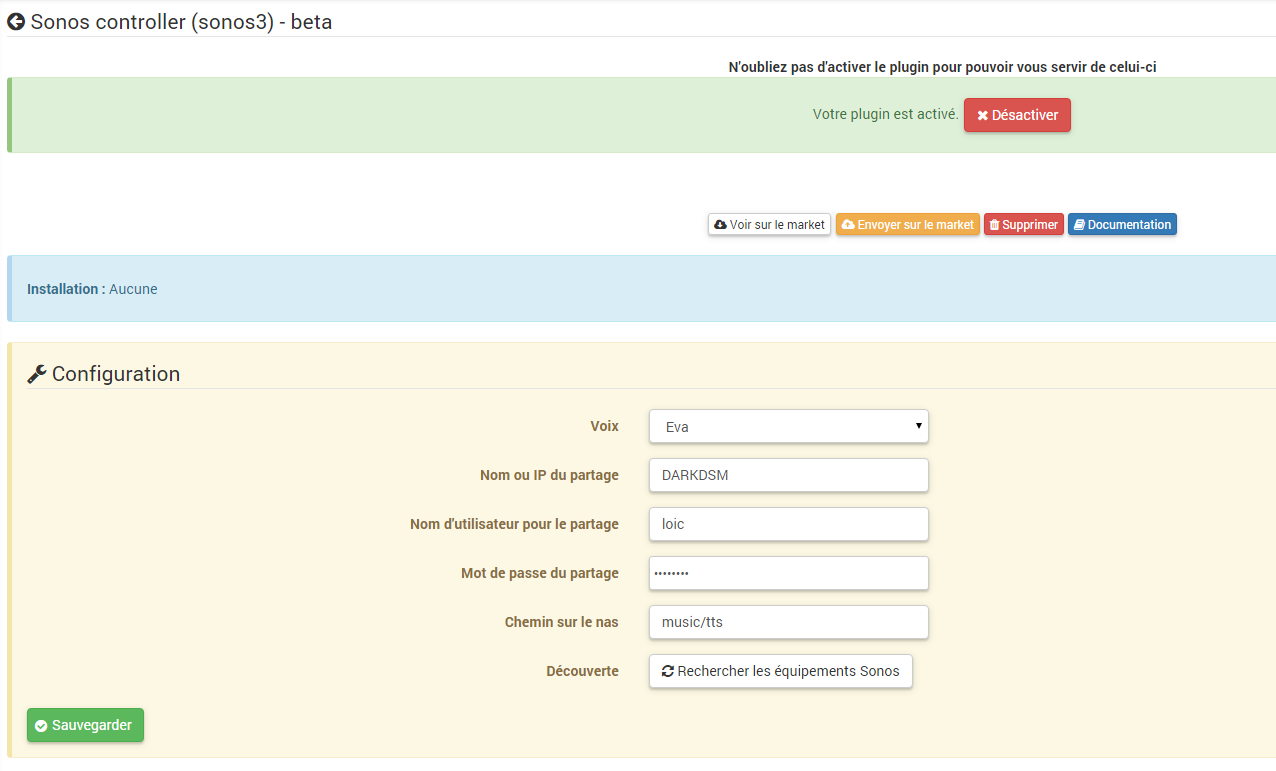
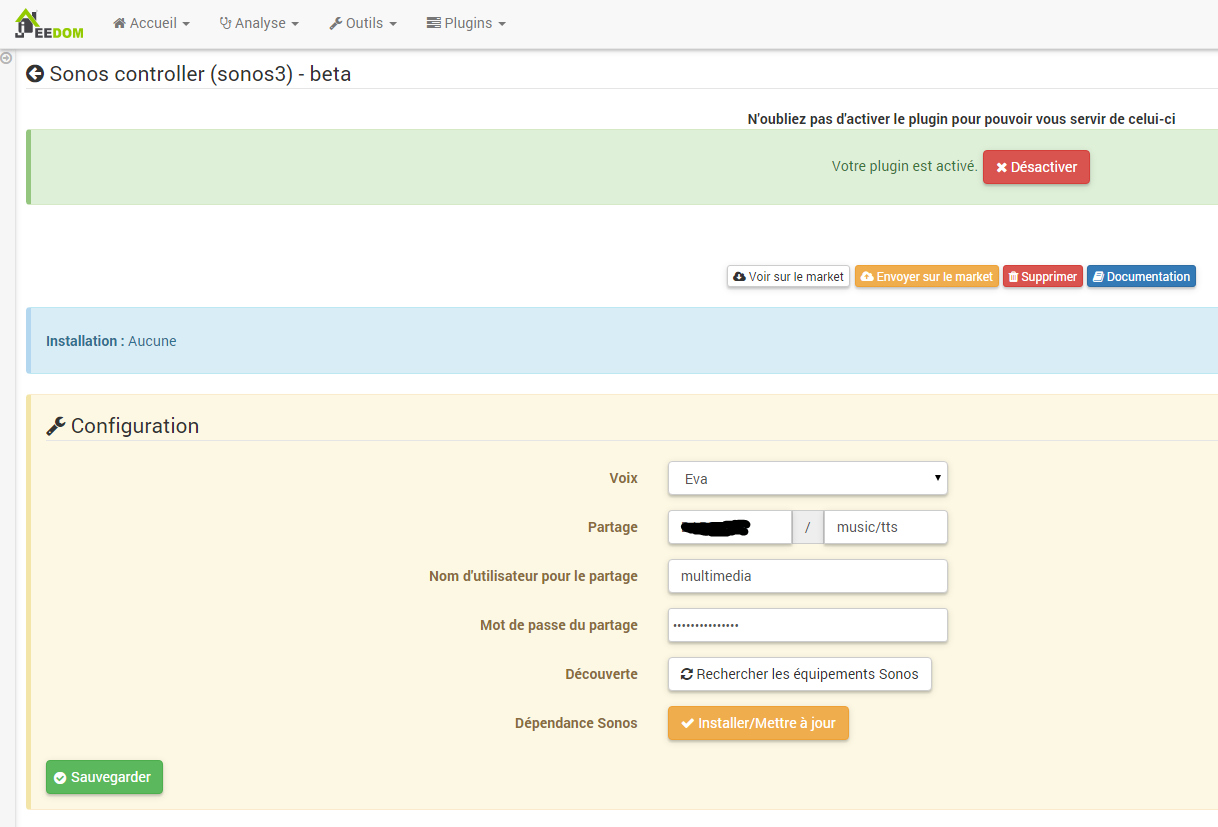
Improve conf

diff --git a/plugin_info/configuration.php b/plugin_info/configuration.php
@@ -82,7 +82,7 @@ if (version_compare(PHP_VERSION, '5.6.0') < 0) {
    </div>
  </div>
  <div class="form-group useShare">
-  <label class="col-lg-4 control-label">{{Nom ou IP du partage}}</label>
+  <label class="col-lg-4 control-label">{{Partage}}</label>
   <div class="col-lg-2">
    <div class="input-group">
      <input class="configKey tooltips form-control" data-l1key="tts_host" />
